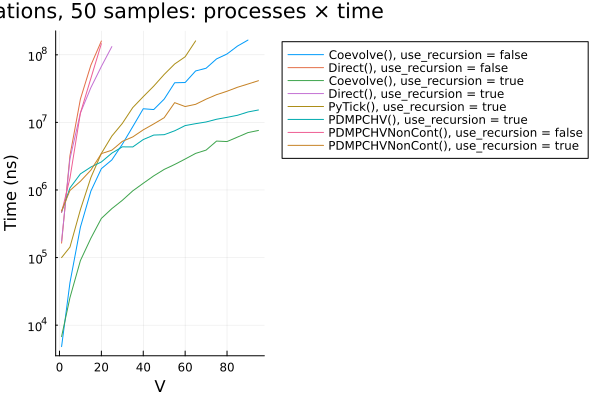
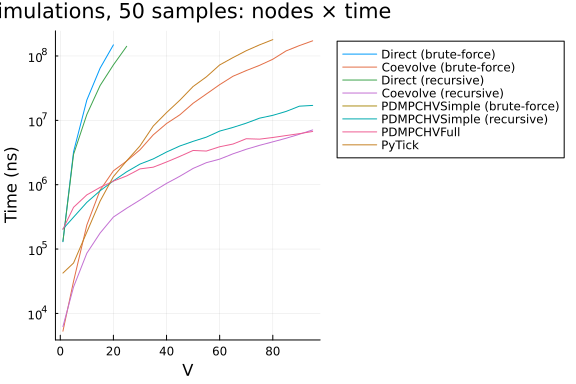
update benchmark figures, ran on laptop

diff --git a/paper/paper.tex b/paper/paper.tex
@@ -427,7 +427,7 @@ Compute the empirical quantiles of the transformed intervals. That is, the \( q 
 
 \subsection{Benchmarks} \label{subsec:benchmark}
 
-We conduct a set of benchmarks to assess the performance of the \texttt{JumpProcesses.jl} aggregators described in Section~\ref{sec:implementation}. All benchmarks are available in \texttt{SciMLBenchmarks.jl}\footnote{\url{https://github.com/SciML/SciMLBenchmarks.jl/tree/ba0827aca9f1da1c83d11805f2e50405d3847e0e/benchmarks/Jumps}}. All were run in BuildKite\footnote{\url{https://buildkite.com/julialang/scimlbenchmarks-dot-jl/builds/1302\#0187e27f-e75e-4b7e-9e66-ef7401baeacf}} via the continuous integration facilities provided by the package maintainers. We have added two benchmark suites to assess the performance of the new aggregators under settings that could not be simulated with previous aggregators.
+We conduct a set of benchmarks to assess the performance of the \texttt{JumpProcesses.jl} aggregators described in Section~\ref{sec:implementation}. All benchmarks are available in \texttt{SciMLBenchmarks.jl}\footnote{\url{https://github.com/SciML/SciMLBenchmarks.jl/tree/3bf650c1aae7b10e49cbd10e8f626d2a517f3e79/benchmarks/Jumps}}. All were run in BuildKite\footnote{\url{https://buildkite.com/julialang/scimlbenchmarks-dot-jl/builds/1326\#01898353-e5f2-449e-82fd-79708f84462c}} via the continuous integration facilities provided by the package maintainers. We have added two benchmark suites to assess the performance of the new aggregators under settings that could not be simulated with previous aggregators.
 
 First, we assess the speed of the aggregators against jump processes whose rates are constant between jumps. There are four such benchmarks: a 1-dimensional continuous time random walk approximation of a diffusion model (Diffusion), the multi-state model from Appendix A.6~\cite{marchetti2017} (Multi-state), a simple negative feedback gene expression model (Gene I) and the negative feedback gene expression from~\cite{gupta2018} (Gene II). We simulate a single trajectory for each aggregator to visually check that they produce similar trajectories for a given model. The Diffusion, Multi-state, Gene I and Gene II benchmarks are then simulated \( 50 \), \( 100 \), \( 2000 \) and \( 200 \) times, respectively. Check the source code for further implementation details.
 
@@ -439,14 +439,14 @@ Benchmark results are listed in Table~\ref{tab:benchmark-biochemistry}. The tabl
 \toprule
  & \multicolumn{1}{c}{\textbf{ Diffusion }} & \multicolumn{1}{c}{\textbf{ Multi-state }} & \multicolumn{1}{c}{\textbf{ Gene I }} & \multicolumn{1}{c}{\textbf{ Gene II }} \\
 \hline
-\textbf{\texttt{Direct}}         & 7.14 s             & 0.16 s             & \underline{0.24 ms} & \underline{0.59 s} \\
-\textbf{\texttt{FRM}}            & 15.54 s            & 0.25 s             & 0.29 ms             & 0.81 s             \\
-\textbf{\texttt{SortingDirect}}  & 1.06 s             & \underline{0.11 s} & \textbf{0.23 ms}    & \textbf{0.50 s}    \\
-\textbf{\texttt{NRM}}            & 0.76 s             & 0.25 s             & 0.40 ms             & 0.91 s             \\
-\textbf{\texttt{DirectCR}}       & \underline{0.52 s} & 0.21 s             & 0.46 ms             & 1.03 s             \\
-\textbf{\texttt{RSSA}}           & 1.42 s             & \textbf{0.10 s}    & 0.43 ms             & 0.67 s             \\
-\textbf{\texttt{RSSACR}}         & \textbf{0.43 s}    & 0.15 s             & 0.88 ms             & 1.03 s             \\
-\textbf{\texttt{Coevolve}}       & 0.88 s             & 0.34 s             & 0.54 ms             & 1.29 s             \\
+\textbf{\texttt{Direct}}         & 4.80 s             & 0.11 s             & \textbf{0.17 ms}    & \underline{0.49 s} \\
+\textbf{\texttt{FRM}}            & 14.51 s            & 0.20 s             & 0.25 ms             & 0.83 s             \\
+\textbf{\texttt{SortingDirect}}  & 1.17 s             & \underline{0.09 s} & \underline{0.18 ms} & \textbf{0.44 s}    \\
+\textbf{\texttt{NRM}}            & 0.68 s             & 0.22 s             & 0.33 ms             & 0.82 s             \\
+\textbf{\texttt{DirectCR}}       & \underline{0.44 s} & 0.18 s             & 0.35 ms             & 0.87 s             \\
+\textbf{\texttt{RSSA}}           & 1.64 s             & \textbf{0.09 s}    & 0.35 ms             & 0.58 s             \\
+\textbf{\texttt{RSSACR}}         & \textbf{0.36 s}    & 0.12 s             & 0.72 ms             & 0.91 s             \\
+\textbf{\texttt{Coevolve}}       & 0.75 s             & 0.30 s             & 0.45 ms             & 1.13 s             \\
 \bottomrule
 \end{tabular}
 \caption{Median execution time. A 1-dimensional continuous time random walk approximation of a diffusion model (Diffusion), the multi-state model from Appendix A.6~\cite{marchetti2017} (Multi-state), a simple negative feedback gene expression model (Gene I) and the negative feedback gene expression from~\cite{gupta2018} (Gene II). Fastest time is \textbf{bold}, second fastest \underline{underlined}. Benchmark source code and dependencies are available in \texttt{SciMLBenchmarks.jl}, see first paragraph of Section~\ref{subsec:benchmark} for source references.}
@@ -514,26 +514,26 @@ Another parameter that can affect the precision and speed of the synapse benchma
 \multicolumn{1}{l}{} & \textbf{V} & \textbf{\textit{Inverse}} & \textbf{\texttt{Coevolve}} & \textbf{\textit{CHV}}    & \textbf{\textit{Inverse}} & \textbf{\texttt{Coevolve}} & \textbf{\textit{CHV}}    & \textbf{\textit{CHV}}  & \textbf{\textit{Tick}} \\
 \multicolumn{1}{l}{} &            &                           &                            & \textbf{\textit{simple}} &                           &                            & \textbf{\textit{simple}} & \textbf{\textit{full}} &  \\
 \hline
-\multirow{20}{*}{\textbf{Time}} & \textbf{1}  & 126.9 \( \mu \)s  & \textbf{3.1 \( \bm{\mu} \)s}&  & 111.9 \( \mu \)s & \underline{3.7 \( \mu \)s}    &  & 101.6 \( \mu \)s             & 31.6 \( \mu \)s              \\
-                                &             &                   &                             &  &                  &                               &  &                              &                              \\
-                                & \textbf{10} & 18.2 ms           & 202.7 \( \mu \)s            &  & 12.6 ms          & \textbf{76.0 \( \bm{\mu} \)s} &  & 507.5 \( \mu \)s             & \underline{173.6 \( \mu \)s} \\
-                                &             &                   &                             &  &                  &                               &  &                              &                              \\
-                                & \textbf{20} & 129.6 ms          & 1.4 ms                      &  & 61.7 ms          & \textbf{277.9 \( \bm{\mu} \)s}&  & \underline{787.3 \( \mu \)s} & 1.2 ms                       \\
-                                &             &                   &                             &  &                  &                               &  &                              &                              \\
-                                & \textbf{30} & 427.8 ms          & 3.4 ms                      &  & 197.9 ms         & \textbf{512.5 \( \bm{\mu} \)s}&  & \underline{1.2 ms}           & 3.6 ms                       \\
-                                &             & \textit{n=24}     &                             &  &                  &                               &  &                              &                              \\
-                                & \textbf{40} & 2.2 s             & 8.7 ms                      &  & 1.6 s            & \textbf{948.9 \( \bm{\mu} \)s}&  & \underline{1.5 ms}           & 9.2 ms                       \\
-                                &             & \textit{n=5}      &                             &  & \textit{n=7}     &                               &  &                              &                              \\
-                                & \textbf{50} & 4.6 s             & 17.5 ms                     &  & 3.1 s            & \textbf{1.5 ms}               &  & \underline{1.9 ms}           & 21.8 ms                      \\
-                                &             & \textit{n=3}      &                             &  & \textit{n=4}     &                               &  &                              &                              \\
-                                & \textbf{60} & 8.1 s             & 31.5 ms                     &  & 5.4 s            & \textbf{2.2 ms}               &  & \underline{2.5 ms}           & 46.4 ms                      \\
-                                &             & \textit{n=2}      &                             &  & \textit{n=2}     &                               &  &                              &                              \\
-                                & \textbf{70} & 13.6 s            & 52.7 ms                     &  & 9.1 s            & \underline{3.1 ms}            &  & \textbf{3.0 ms}              & 90.4 ms                      \\
-                                &             & \textit{n=1}      &                             &  & \textit{n=2}     &                               &  &                              &                              \\
-                                & \textbf{80} & 24.1 s            & 78.0 ms                     &  & 12.9 s           & \underline{4.0 ms}            &  & \textbf{3.6 ms}              & 148.0 ms                     \\
-                                &             & \textit{n=1}      &                             &  & \textit{n=1}     &                               &  &                              &                              \\
-                                & \textbf{90} & 21.2 s            & 133.7 ms                    &  & 20.6 s           & \underline{5.7 ms}            &  & \textbf{4.7 ms}              & 243.4 ms                     \\
-                                &             & \textit{n=1}      &                             &  & \textit{n=1}     &                               &  &                              &                              \\
+\multirow{20}{*}{\textbf{Time}} & \textbf{1}  & 95.9 \( \mu \)s   & \textbf{5.3 \( \bm{\mu} \)s}& 130.3 \( \mu \) s   & 107.9 \( \mu \)s & \underline{6.0 \( \mu \)s}    & 128.6 \( \mu \)s                & 129.4 \( \mu \)s             & 24.7 \( \mu \)s              \\
+                                &             &                   &                             &                     &                  &                               &                                 &                              &                              \\
+                                & \textbf{10} & 15.0 ms           & 180.6 \( \mu \)s            & 3.8 ms              & 8.2 ms           & \textbf{60.1 \( \bm{\mu} \)s} &  340.6 \( \mu \)s               & 452.8 \( \mu \)s             & \underline{120.2 \( \mu \)s} \\
+                                &             &                   &                             &                     &                  &                               &                                 &                              &                              \\
+                                & \textbf{20} & 105.2 ms          & 1.5 ms                      & 37.7 ms             & 48.9 ms          & \textbf{223.2 \( \bm{\mu} \)s}&  773.8 \( \mu \)s               & \underline{699.6 \( \mu \)s} & 897.7 \( \mu \)s             \\
+                                &             &                   &                             &                     &                  &                               &                                 &                              &                              \\
+                                & \textbf{30} & 370.6 ms          & 3.2 ms                      & 101.2 ms            & 155.9 ms         & \textbf{405.8 \( \bm{\mu} \)s}&  1.3 ms                         & \underline{1.1 ms}           & 2.5 ms                       \\
+                                &             & \textit{n=28}     &                             &                     &                  &                               &                                 &                              &                              \\
+                                & \textbf{40} & 1.7 s             & 7.8 ms                      & 262.2 ms            & 1.1 s            & \textbf{764.4 \( \bm{\mu} \)s}&  2.0 ms                         & \underline{1.4 ms}           & 6.3 ms                       \\
+                                &             & \textit{n=7}      &                             & \textit{n=39}       & \textit{n=9}     &                               &                                 &                              &                              \\
+                                & \textbf{50} & 3.2 s             & 16.5 ms                     & 556.6 ms            & 2.4 s            & \textbf{1.2 ms}               &  3.0 ms                         & \underline{1.7 ms}           & 13.4 ms                      \\
+                                &             & \textit{n=3}      &                             & \textit{n=18}       & \textit{n=5}     &                               &                                 &                              &                              \\
+                                & \textbf{60} & 6.3 s             & 32.0 ms                     & 1.0 s               & 4.1 s            & \textbf{1.8 ms}               &  4.3 ms                         & \underline{2.4 ms}           & 27.9 ms                      \\
+                                &             & \textit{n=2}      &                             & \textit{n=10}       & \textit{n=3}     &                               &                                 &                              &                              \\
+                                & \textbf{70} & 11.5 s            & 52.8 ms                     & 1.8 s               & 6.8 s            & \textbf{2.5 ms}               &  5.7 ms                         & \underline{2.7 ms}           & 56.0 ms                      \\
+                                &             & \textit{n=1}      &                             & \textit{n=6}        & \textit{n=2}     &                               &                                 &                              &                              \\
+                                & \textbf{80} & 16.6 s            & 88.5 ms                     & 2.8 s               & 11.2 s           & \underline{3.2 ms}            &  7.4 ms                         & \textbf{3.1 ms}              & 93.2 ms                      \\
+                                &             & \textit{n=1}      &                             & \textit{n=4}        & \textit{n=1}     &                               &                                 &                              &                              \\
+                                & \textbf{90} & 24.9 s            & 124.5 ms                    & 4.8 s               & 15.3 s           & \underline{4.2 ms}            &  9.9 ms                         & \textbf{3.8 ms}              & 152.3 ms                     \\
+                                &             & \textit{n=1}      &                             & \textit{n=3}        & \textit{n=1}     &                               &                                 &                              &                              \\
 \bottomrule
 \end{tabular}
 \caption{Median execution time for the compound Hawkes process, V is the number of nodes and n is the total number of successful executions under ten seconds. Brute force refers to the implementation of the intensity rate looping through the whole history of past events. Recursive refers to a recursive implementation that only requires looking at the previous state of each node. \textit{Inverse} and \texttt{Coevolve} are algorithms from \texttt{JumpProcesses.jl}, \textit{CHV} is an algorithm from \texttt{PiecewiseDeterministicMarkovProcesses.jl}. See Subsection~\ref{subsec:sim-inverse} for the distinction between \textit{CHV simple} and \textit{CHV full}. \texttt{Tick} is a Python library. All simulations were run 50 times except when stated otherwise under the running time. Fastest time is \textbf{bold}, second fastest \underline{underlined}. Benchmark source code and dependencies are available in \texttt{SciMLBenchmarks.jl}, see first paragraph of Section~\ref{subsec:benchmark} for source references.}
@@ -547,8 +547,8 @@ Another parameter that can affect the precision and speed of the synapse benchma
  & \textbf{Time} & \textbf{Allocation}  \\
 \hline
 \textbf{\textit{Inverse}} & -  & - \\
-\textbf{\texttt{Coevolve}} & \underline{4.9 s} & \underline{131.4 Mb}  \\
-\textbf{\textit{CHV}} & \textbf{2.4 s} & \textbf{54.0 Mb} \\
+\textbf{\texttt{Coevolve}} & \underline{3.8 s} & \underline{94.1 Mb}  \\
+\textbf{\textit{CHV}} & \textbf{2.0 s} & \textbf{43.5 Mb} \\
 \bottomrule
 \end{tabular}
 \caption{Median execution time and memory allocation. All simulations were run 50 times, a dash indicates that no runs were successful. Fastest time is \textbf{bold}, second fastest \underline{underlined}. Benchmark source code and dependencies are available in \texttt{SciMLBenchmarks.jl}, see first paragraph of Section~\ref{subsec:benchmark} for source references.}
